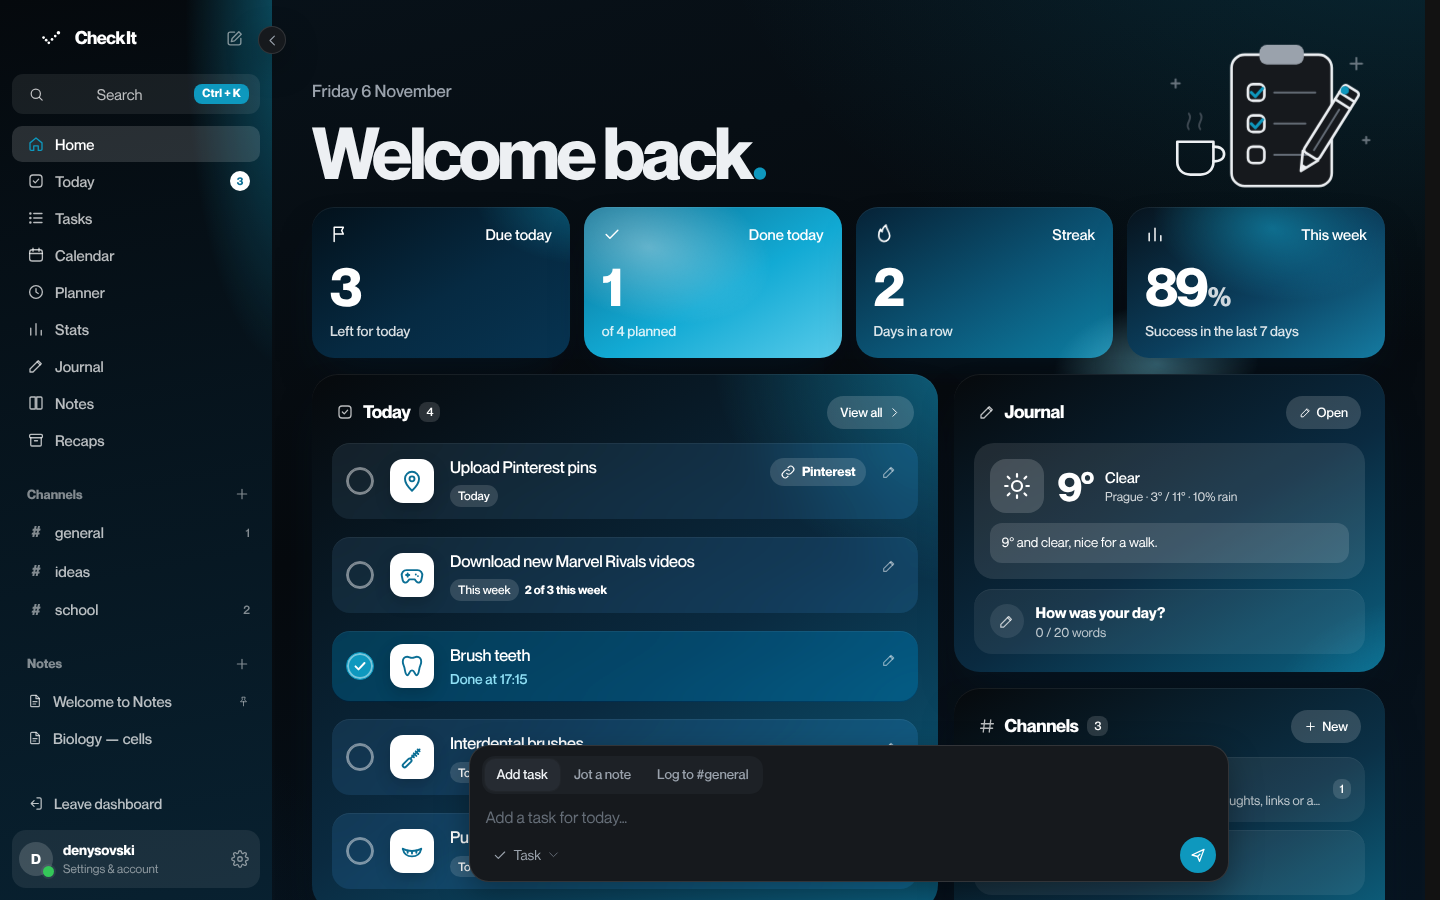
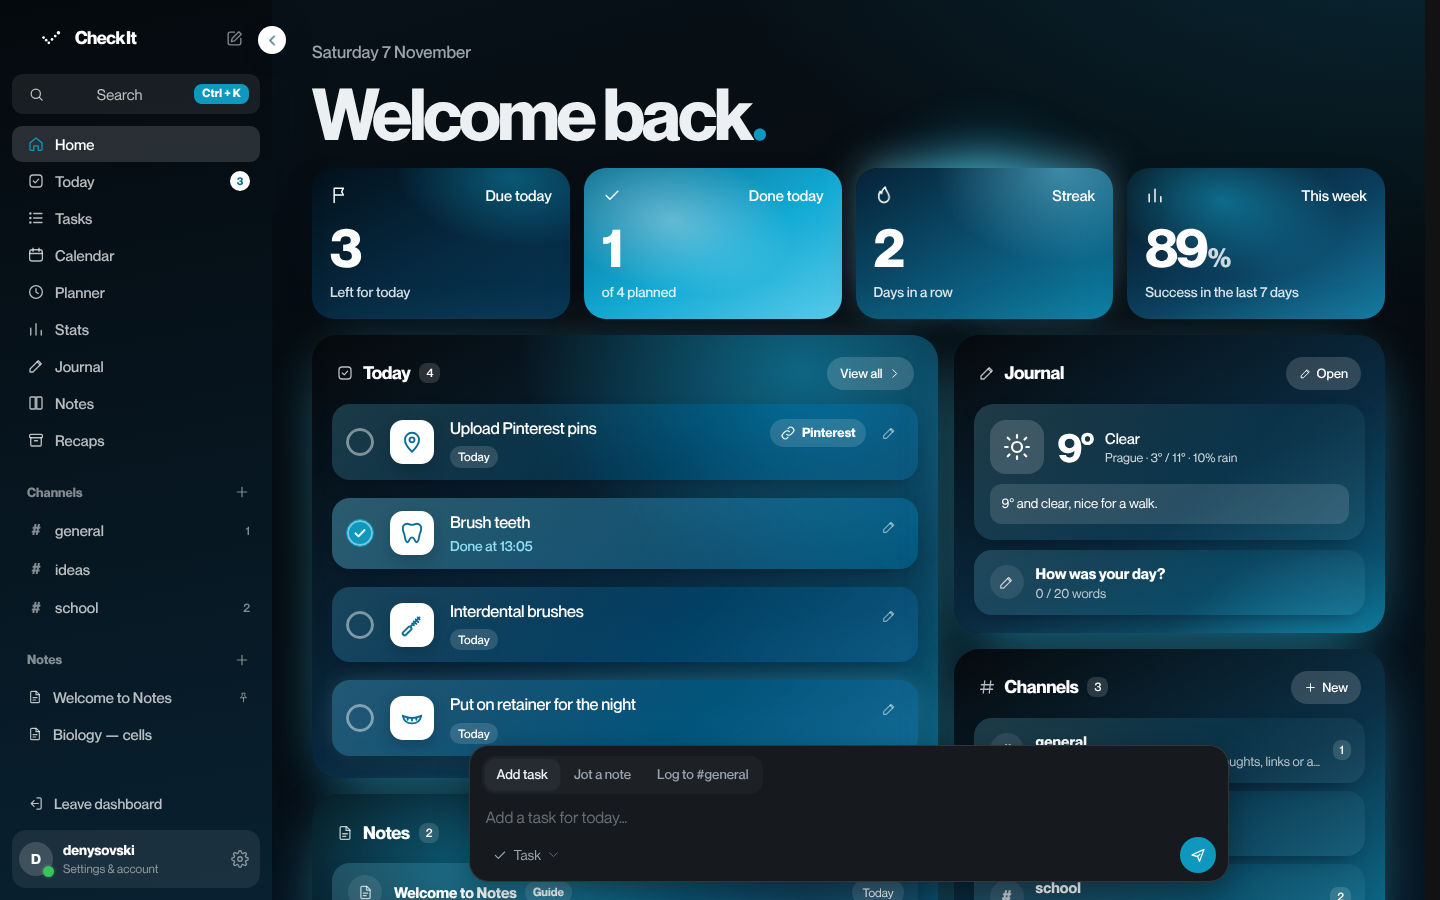
Sidebar collapses to a top card, fire glow on streak, no edge lines
- Collapse hides the whole sidebar except a floating card with the logo,
  Create, Search and the same arrow to expand; the sidebar no longer
  scrolls as a page (only its middle scrolls if it can't fit).
- Removed the Home checklist illustration.
- Streak: a light-blue glow flickers above the card instead of a ring.
- Home panels get a light-blue glow box and lighter inner items.
- Removed the hairline borders on gradient cards (stats, recap).

Claude-Session: https://claude.ai/code/session_01Tmbk2fb3fpLgrpmgcPJTdW

diff --git a/css/style.css b/css/style.css
@@ -2813,3 +2813,81 @@ html.is-landing, html.is-landing body { background: #060A0E; }
 @media (max-width: 900px) { .sidebar { position: fixed; } }
 .rc-hero .rc-ring::before { background: #071A27; }
 :root:not([data-theme="dark"]) .rc-hero .rc-ring::before { background: #0A4F6E; }
+
+/* =====================================================================
+   v10: no edge lines, glow boxes, fire glow on streak, new sidebar
+   ===================================================================== */
+/* no hairlines on gradient surfaces */
+.gx, .panel, .tile-card, .stats-page .kpi, .stats-page .card, .pl-goal, .sidebar, .rc-hero, .rc-card, .card.rc-detail, .rc-detail .card {
+  border: 0 !important; outline: 0;
+  box-shadow: 0 24px 50px -20px rgba(3, 20, 32, .6) !important;
+}
+:root:not([data-theme="dark"]) :is(.gx, .panel, .tile-card, .stats-page .kpi, .stats-page .card, .pl-goal, .rc-hero, .rc-card) { box-shadow: 0 22px 48px -20px rgba(8, 58, 91, .5) !important; }
+.recap-page .card, .page .card:has(.rc-hero) { border: 0 !important; box-shadow: none !important; background: transparent !important; }
+
+/* Today, Journal, Channels, Notes: a light blue glow box so their content reads */
+.home .panel { box-shadow: 0 0 0 0 transparent, 0 26px 60px -22px rgba(18, 170, 212, .55), 0 0 70px -18px rgba(127, 221, 245, .28) !important; }
+.panel .tcard, .panel .prow, .panel .jw-mini, .panel .j-mini, .panel .jpw, .panel .ch-row, .panel .note-row {
+  background: linear-gradient(135deg, rgba(127, 221, 245, .20) 0%, rgba(18, 170, 212, .09) 60%, rgba(255, 255, 255, .05) 100%) !important;
+  box-shadow: 0 10px 24px -12px rgba(0, 10, 20, .55), 0 0 0 0 transparent !important; border: 0 !important;
+}
+.panel .tcard:hover, .panel .prow:hover { background: linear-gradient(135deg, rgba(127, 221, 245, .28) 0%, rgba(18, 170, 212, .14) 60%, rgba(255, 255, 255, .07) 100%) !important;
+  box-shadow: 0 14px 30px -12px rgba(0, 10, 20, .6), 0 0 26px -6px rgba(127, 221, 245, .35) !important; }
+.panel .tcard.is-done { background: linear-gradient(135deg, rgba(127, 221, 245, .34), rgba(18, 170, 212, .2)) !important; }
+
+/* streak: no ring, a flickering light-blue fire above the card */
+.tile-card.t-red::after { content: "" !important; display: block !important; position: absolute; z-index: -2; left: 6%; right: 6%; top: -26px; height: 70%; border-radius: 50%;
+  background: radial-gradient(60% 70% at 50% 70%, rgba(127, 221, 245, .95), rgba(18, 170, 212, .55) 45%, transparent 75%) !important; box-shadow: none !important;
+  filter: blur(22px); opacity: .85 !important; transform-origin: 50% 100%; animation: fireGlow 2.2s ease-in-out infinite !important; pointer-events: none; }
+.tile-card.t-red { box-shadow: 0 -10px 40px -8px rgba(127, 221, 245, .55), 0 24px 50px -20px rgba(3, 20, 32, .6) !important; animation: fireBox 2.2s ease-in-out infinite; }
+.tile-card.t-red::before { border-radius: inherit; }
+.tile-card.t-red > * { position: relative; z-index: 1; }
+.tile-card.t-red { overflow: visible !important; }
+.tile-card.t-red .gx-clip { position: absolute; inset: 0; border-radius: inherit; overflow: hidden; }
+@keyframes fireGlow {
+  0%, 100% { transform: scale(1, 1) translateX(0); opacity: .75; }
+  20% { transform: scale(1.06, 1.25) translateX(-3%); opacity: .95; }
+  40% { transform: scale(.95, 1.05) translateX(2%); opacity: .7; }
+  60% { transform: scale(1.08, 1.35) translateX(-1%); opacity: 1; }
+  80% { transform: scale(.98, 1.1) translateX(3%); opacity: .8; }
+}
+@keyframes fireBox {
+  0%, 100% { box-shadow: 0 -10px 36px -10px rgba(127, 221, 245, .45), 0 24px 50px -20px rgba(3, 20, 32, .6); }
+  60% { box-shadow: 0 -16px 52px -8px rgba(127, 221, 245, .75), 0 24px 50px -20px rgba(3, 20, 32, .6); }
+}
+html.no-motion .tile-card.t-red, html.no-motion .tile-card.t-red::after { animation: none !important; }
+@media (prefers-reduced-motion: reduce) { .tile-card.t-red, .tile-card.t-red::after { animation: none !important; } }
+
+/* ---------------- sidebar: no page-like scrolling; collapse hides all but the top ---------------- */
+.sidebar { overflow: hidden !important; }
+.sb-mid { flex: 1 1 auto; min-height: 0; overflow-y: auto; overflow-x: hidden; scrollbar-width: none; overscroll-behavior: contain; margin: 0 -12px; padding: 0 12px; }
+.sb-mid::-webkit-scrollbar { display: none; }
+.sb-bottom { flex: none; display: flex; flex-direction: column; gap: 2px; padding-top: 8px; }
+.sb-bottom .sb-leave { margin-top: 0 !important; }
+.home-hero { min-height: 0; }
+
+@media (min-width: 901px) {
+  :root { --sbw-full: 272px; --sb-card-h: 128px; }
+  .shell { grid-template-columns: var(--sbw) minmax(0, 1fr) !important; }
+  .shell > #view { grid-column: 2; }
+  .sidebar { position: fixed !important; top: 0; left: 0; width: var(--sbw-full); height: 100vh; height: 100dvh; border-radius: 0;
+    transition: top .5s var(--ease-out), left .5s var(--ease-out), height .55s var(--ease-out), border-radius .5s var(--ease-out), box-shadow .5s var(--ease-out) !important; }
+  .sb-mid, .sb-bottom { transition: opacity .3s var(--ease-out), visibility 0s linear 0s; }
+  html.sb-collapsed { --sbw: 0px; }
+  html.sb-collapsed .sidebar { top: 12px; left: 12px; height: var(--sb-card-h); border-radius: 24px; box-shadow: 0 18px 40px -14px rgba(3, 20, 32, .6) !important; }
+  html.sb-collapsed .sb-mid, html.sb-collapsed .sb-bottom { opacity: 0; visibility: hidden; transition: opacity .2s ease-in, visibility 0s linear .2s; }
+  /* keep labels in the top part visible when collapsed (undo the old mini mode) */
+  html.sb-collapsed .sidebar .sb-top .sb-label, html.sb-collapsed .sb-top-actions, html.sb-collapsed .sidebar .sb-search .sb-label, html.sb-collapsed .sidebar .sb-kbd { opacity: 1 !important; pointer-events: auto !important; }
+  html.sb-collapsed .sb-search { background: rgba(255, 255, 255, .08) !important; }
+  .sb-toggle { left: calc(var(--sbw-full) - 14px) !important; top: 26px; transition: top .5s var(--ease-out), left .5s var(--ease-out), background-color .3s, box-shadow .35s var(--ease-out) !important; }
+  html.sb-collapsed .sb-toggle { left: calc(12px + var(--sbw-full) - 14px) !important; top: 38px; }
+  html.sb-collapsed #view { padding-top: calc(var(--sb-card-h) + 10px); }
+  #view { transition: padding-top .5s var(--ease-out); }
+}
+.sb-toggle { background: #fff !important; color: #0B4F70 !important; border: 0 !important; box-shadow: 0 6px 16px rgba(3, 20, 32, .35) !important; }
+.sb-toggle:hover { box-shadow: 0 0 0 5px rgba(127, 221, 245, .25), 0 6px 16px rgba(3, 20, 32, .35) !important; transform: none !important; }
+/* streak card: gradient moves to ::before so the fire (::after) can sit underneath it */
+.tile-card.t-red { background: transparent !important; }
+.tile-card.t-red::before { inset: 0 !important; border-radius: inherit; animation: none !important; transform: none !important;
+  background: radial-gradient(70% 90% at 80% 0%, rgba(127, 221, 245, .45), transparent 70%), linear-gradient(150deg, var(--g1) 0%, var(--g2) 55%, var(--g3) 125%) !important; background-size: auto !important; }
+html .shell > .sidebar::before { display: none !important; content: none !important; }

diff --git a/js/shell.js b/js/shell.js
@@ -37,6 +37,7 @@ function sidebarHTML() {
       </div>
     </div>
     <button class="sb-search" id="sb-search" title="Search"><span>${icon('search', 17)}</span><span class="grow sb-label">Search</span><kbd class="sb-label sb-kbd">${isMac ? '⌘' : 'Ctrl'} + K</kbd></button>
+    <div class="sb-mid">
     <nav class="sb-nav" aria-label="Main">
       ${nav.map(([r, l, ic, badge]) => `<a href="#/${r}" data-nav="${r}" title="${l}">${icon(ic, 18)}<span class="grow sb-label">${l}</span>${badge ? `<span class="sb-badge">${badge}</span>` : ''}</a>`).join('')}
     </nav>
@@ -48,12 +49,15 @@ function sidebarHTML() {
       <div class="sb-head"><span class="sb-label">Notes</span><button class="icon-btn subtle xs2" id="sb-add-note" aria-label="New note" title="New note">${icon('plus', 16)}</button></div>
       ${notes.length ? notes.map((n) => `<a href="#/note/${n.id}" data-nav="note:${n.id}" title="${esc(n.title || 'Untitled')}">${icon('doc', 16)}<span class="grow ellipsis sb-label">${esc(n.title || 'Untitled')}</span>${n.pinned ? `<span class="sb-pin sb-label">${icon('thumbtack', 13)}</span>` : ''}</a>`).join('') : '<p class="sb-empty sb-label">No notes yet</p>'}
     </div>
+    </div>
+    <div class="sb-bottom">
     <a class="sb-leave" href="#/welcome" title="Leave dashboard">${icon('logout', 17)}<span class="sb-label">Leave dashboard</span></a>
     <button class="sb-user" id="account-btn" aria-label="Account and settings" aria-haspopup="menu" aria-expanded="false" title="Account and settings">
       <span class="avatar static sm">${esc((d.profile?.displayName || p.name || '?').slice(0, 1).toUpperCase())}<i class="online"></i></span>
       <span class="grow sb-label sb-user-txt"><b class="ellipsis">${esc(d.profile?.displayName || p.name)}</b><small>Settings &amp; account</small></span>
       <span class="sb-user-gear sb-label">${icon('gear', 18)}</span>
-    </button>`;
+    </button>
+    </div>`;
 }
 
 export function applySidebarState() {
@@ -77,10 +81,10 @@ function bindSidebar(sb) {
 export function refreshSidebar() {
   const sb = $('.sidebar');
   if (!sb) return;
-  const scroll = sb.scrollTop;
+  const mid = $('.sb-mid', sb); const scroll = mid ? mid.scrollTop : 0;
   sb.innerHTML = sidebarHTML();
   bindSidebar(sb);
-  sb.scrollTop = scroll;
+  const mid2 = $('.sb-mid', sb); if (mid2) mid2.scrollTop = scroll;
 }
 
 function markActive() {
@@ -161,34 +165,6 @@ function refreshSidebarCounts() {
   if (b) { if (n) b.textContent = n; else b.remove(); }
 }
 
-// ---------------------------------------------------------------- illustration (original line art)
-const ILLUSTRATION = `
-<svg class="illus-hero" viewBox="0 0 280 210" aria-hidden="true">
-  <g class="ih-float">
-    <path class="ih-line" d="M48 176c-10 0-16-7-16-15v-25h44v25c0 8-6 15-16 15z"/>
-    <path class="ih-line" d="M76 142c9 0 13 4 13 9s-4 9-13 9"/>
-    <path class="ih-steam" d="M46 124c-6-7 6-11 0-19M60 124c-6-7 6-11 0-19"/>
-  </g>
-  <g class="ih-board">
-    <rect class="ih-fill ih-line" x="98" y="30" width="122" height="160" rx="16"/>
-    <rect class="ih-ink" x="132" y="18" width="54" height="24" rx="9"/>
-    <rect class="ih-fill ih-line" x="118" y="66" width="20" height="20" rx="6"/>
-    <rect class="ih-fill ih-line" x="118" y="104" width="20" height="20" rx="6"/>
-    <rect class="ih-fill ih-line" x="118" y="142" width="20" height="20" rx="6"/>
-    <path class="ih-tick" d="M122 76l5 5 9-10"/>
-    <path class="ih-tick t2" d="M122 114l5 5 9-10"/>
-    <path class="ih-line thin" d="M150 76h50M150 114h38M150 152h46"/>
-  </g>
-  <g class="ih-pencil" transform="translate(196 176) rotate(-58)">
-    <rect class="ih-fill ih-line" x="0" y="-11" width="96" height="22" rx="4"/>
-    <path class="ih-line" d="M0-11L-22 0 0 11"/>
-    <path class="ih-ink-fill" d="M-14-4L-22 0-14 4z"/>
-    <path class="ih-line" d="M74-11v22M84-11v22"/>
-    <path class="ih-line thin" d="M8 0h58"/>
-  </g>
-  <path class="ih-spark" d="M250 34v14M243 41h14M30 60v10M25 65h10M262 130v8M258 134h8"/>
-  <circle class="ih-dot" cx="236" cy="78" r="5"/>
-</svg>`;
 
 // ---------------------------------------------------------------- home
 let composerTarget = { kind: 'task' };
@@ -221,7 +197,6 @@ function viewHome(view) {
           <p class="eyebrow date">${esc(date)}</p>
           <h1 class="home-title"><span>Welcome back<span class="hn">.</span></span></h1>
         </div>
-        ${ILLUSTRATION}
       </div>
 
       <div class="tiles">

diff --git a/sw.js b/sw.js
@@ -1,5 +1,5 @@
 // Check It service worker: offline cache + notifications.
-const CACHE = 'checkit-v10';
+const CACHE = 'checkit-v11';
 const ASSETS = [
   './', './index.html', './css/style.css', './manifest.webmanifest',
   './js/app.js', './js/store.js', './js/auth.js', './js/schedule.js', './js/icons.js',

diff --git a/README.md b/README.md
@@ -64,7 +64,7 @@ There are **33 suggestions** in categories: Creator, Body care, Health, Home, Mi
 
 ### Home
 
-- **Overview:** a greeting and four tiles in four shades of blue: *Due today* (darkest), *Done today* (lightest), *Streak* (with a flickering flame and a pulse) and *This week*.
+- **Overview:** a greeting and four tiles in four shades of blue: *Due today* (darkest), *Done today* (lightest), *Streak* (a light-blue glow flickers above it like fire) and *This week*.
 - **Cards:** every section sits on its own slowly drifting blue gradient, so no two look the same. Task cards have an edit (pencil) button that opens the task in Tasks.
 - **Today:** what's planned for today.
 - **Journal:** today's word count, your mood and a weather tip.
@@ -182,7 +182,7 @@ Export is in Stats, Settings and the account menu:
 
 ### Dark mode and the sidebar
 
-Dark mode uses a charcoal background with a soft blue tint, not pure black, and has no white surfaces. You can collapse the sidebar to icons only (channels become `#G`, `#I`, …). *Leave dashboard* takes you back to the landing page without logging you out.
+Dark mode uses a blue-black background, and every card sits on its own drifting blue gradient. Collapsing the sidebar hides everything except a small floating card in the top-left corner with the logo, Create, Search and the same arrow to open it again. *Leave dashboard* takes you back to the landing page without logging you out.
 
 <img src="docs/screens/19-home-dark.png" alt="Home in dark mode">
 
